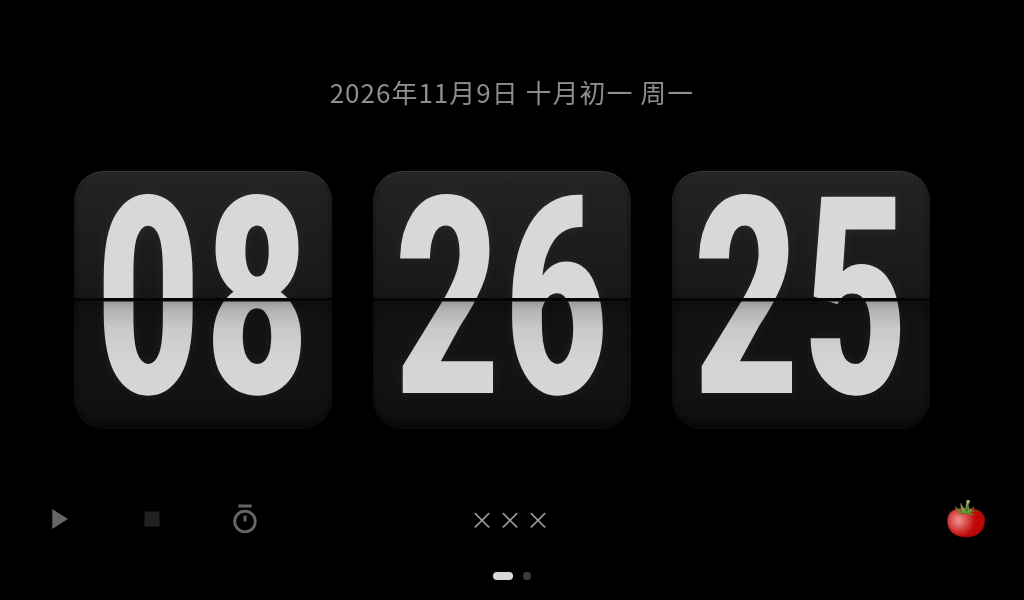
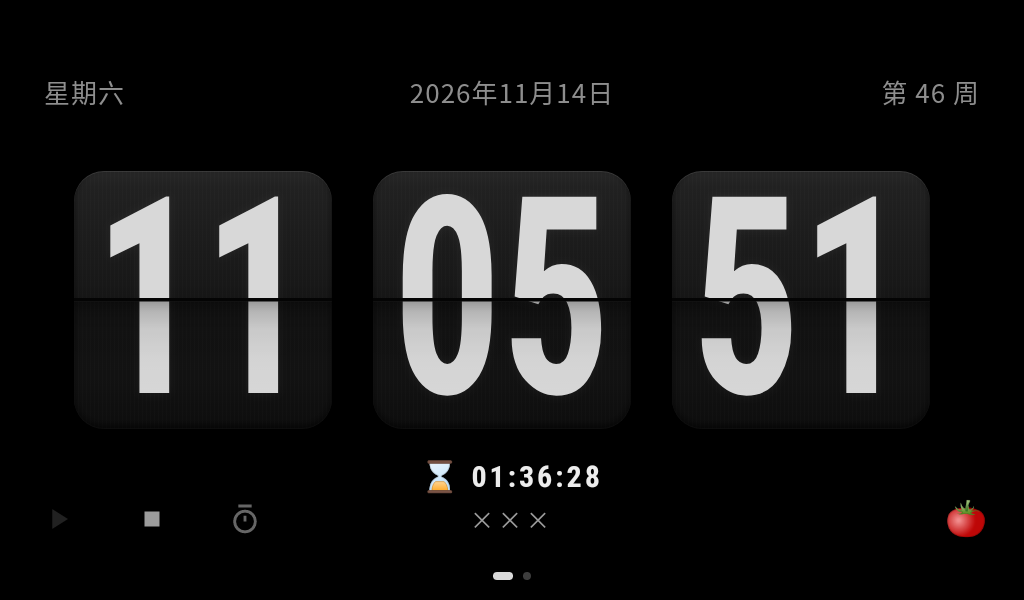
feat(page): 顶行三段式（左星期 / 中公历 / 右第几周）、倒计时运行态提亮、去掉农历换算
与真机 v23 同步：日期行拆分 #dayLine / #dateLine / #weekLine；.cd-status 运行态 30px 白字 + 8% 淡底条（::before, 320x46, z-index:-1）+ U+231B 前缀；删除 LUNAR_INFO / solarToLunar / lunarText 共 39 行。仓库版 240,070 B / md5 d25b6c44645e4b1a0cba94be9a8615af；docs/images/main-clock.png 按本版在实机重拍。

diff --git a/page/index.html b/page/index.html
@@ -35,6 +35,18 @@
     font-size:26px;font-weight:400;color:#8E8E8E;
     letter-spacing:1px;
   }
+  /* 与日期同一行的右端：第几周 */
+  .week-line{
+    position:absolute;top:74px;right:44px;
+    font-size:26px;font-weight:400;color:#8E8E8E;
+    letter-spacing:1px;
+  }
+  /* 与日期同一行的左端：星期 */
+  .day-line{
+    position:absolute;top:74px;left:44px;
+    font-size:26px;font-weight:400;color:#8E8E8E;
+    letter-spacing:1px;
+  }
   .tiles{
     position:absolute;top:171px;left:74px;right:74px;
     height:258px;
@@ -130,14 +142,28 @@
 
   /* ===== 倒计时：时钟页底部一行（默认很淡，点了才进面板） ===== */
   .cd-status{
-    position:absolute;top:462px;left:0;right:0;height:44px;
+    position:absolute;top:456px;left:0;right:0;height:44px;
     line-height:44px;text-align:center;
     font-family:"sans-serif-condensed",Roboto,sans-serif;
     font-size:19px;font-weight:400;color:#4C4C4C;
     letter-spacing:2px;
     z-index:6;
   }
-  .cd-status.run{color:#8E8E8E;}
+  /* 运行中：提亮到 30px 白字，并在文字后面垫一条极淡的圆角底条，让它在黑底上浮起来 */
+  .cd-status.run{
+    color:#EDEDED;font-size:30px;font-weight:600;letter-spacing:3px;
+    font-variant-numeric:tabular-nums;
+  }
+  .cd-status.run::before,
+  .cd-status.final10::before,
+  .cd-status.done::before{
+    content:";
+    position:absolute;left:50%;top:50%;
+    width:320px;height:46px;margin-left:-160px;margin-top:-23px;
+    background:rgba(255,255,255,.08);
+    border-radius:10px;
+    z-index:-1;
+  }
   .cd-status.final{font-size:32px;color:#EDEDED;font-weight:600;letter-spacing:1px;}
   .cd-status.final10{font-size:32px;color:#FF453A;font-weight:700;letter-spacing:1px;}
   .cd-status.done{color:#FF453A;font-weight:700;font-size:26px;}
@@ -381,7 +407,9 @@
 
     <!-- ===== 视图：翻页钟 ===== -->
     <section class="page">
-      <div class="date-line" id="dateLine">2026年11月8日 九月三十 周日</div>
+      <div class="day-line" id="dayLine"></div>
+      <div class="date-line" id="dateLine">2026年11月8日</div>
+      <div class="week-line" id="weekLine"></div>
       <div class="tiles">
         <div class="tile"><div class="digits" id="dH">19</div><div class="shade"></div><div class="seam"></div></div>
         <div class="tile"><div class="digits" id="dM">05</div><div class="shade"></div><div class="seam"></div></div>
@@ -455,11 +483,13 @@
 
 <script>
 (function(){
-  var WEEK_CN = ['周日','周一','周二','周三','周四','周五','周六'];
+  var WEEK_CN = ['星期日','星期一','星期二','星期三','星期四','星期五','星期六'];
   var track = document.getElementById('track');
   var dots = document.getElementById('dots').getElementsByTagName('i');
   var idx = 0;
   var calKey = '';
+  var weekShown = -1;
+  var dayShown = '';
 
   function pad(n){ return n < 10 ? '0' + n : '' + n; }
 
@@ -482,45 +512,6 @@
     }
   }
 
-  /* ---- 农历（1900-2099，表由 lunardate 逐日换算生成并交叉校验） ---- */
-  var LUNAR_INFO = [0x04bd8,0x04ae0,0x0a570,0x054d5,0x0d260,0x0d950,0x16554,0x056a0,0x09ad0,0x055d2,0x04ae0,0x0a5b6,0x0a4d0,0x0d250,0x1d255,0x0b540,0x0d6a0,0x0ada2,0x095b0,0x14977,0x04970,0x0a4b0,0x0b4b5,0x06a50,0x06d40,0x1ab54,0x02b60,0x09570,0x052f2,0x04970,0x06566,0x0d4a0,0x0ea50,0x06e95,0x05ad0,0x02b60,0x186e3,0x092e0,0x1c8d7,0x0c950,0x0d4a0,0x1d8a6,0x0b550,0x056a0,0x1a5b4,0x025d0,0x092d0,0x0d2b2,0x0a950,0x0b557,0x06ca0,0x0b550,0x15355,0x04da0,0x0a5d0,0x14573,0x052b0,0x0a9a8,0x0e950,0x06aa0,0x0aea6,0x0ab50,0x04b60,0x0aae4,0x0a570,0x05260,0x0f263,0x0d950,0x05b57,0x056a0,0x096d0,0x04dd5,0x04ad0,0x0a4d0,0x0d4d4,0x0d250,0x0d558,0x0b540,0x0b5a0,0x195a6,0x095b0,0x049b0,0x0a974,0x0a4b0,0x0b27a,0x06a50,0x06d40,0x0af46,0x0ab60,0x09570,0x04af5,0x04970,0x064b0,0x074a3,0x0ea50,0x06b58,0x05ac0,0x0ab60,0x096d5,0x092e0,0x0c960,0x0d954,0x0d4a0,0x0da50,0x07552,0x056a0,0x0abb7,0x025d0,0x092d0,0x0cab5,0x0a950,0x0b4a0,0x0baa4,0x0ad50,0x055d9,0x04ba0,0x0a5b0,0x15176,0x052b0,0x0a930,0x07954,0x06aa0,0x0ad50,0x05b52,0x04b60,0x0a6e6,0x0a4e0,0x0d260,0x0ea65,0x0d530,0x05aa0,0x076a3,0x096d0,0x04afb,0x04ad0,0x0a4d0,0x1d0b6,0x0d250,0x0d520,0x0dd45,0x0b5a0,0x056d0,0x055b2,0x049b0,0x0a577,0x0a4b0,0x0aa50,0x1b255,0x06d20,0x0ada0,0x14b63,0x09370,0x049f8,0x04970,0x064b0,0x168a6,0x0ea50,0x06aa0,0x1a6c4,0x0aae0,0x092e0,0x0d2e3,0x0c960,0x0d557,0x0d4a0,0x0da50,0x05d55,0x056a0,0x0a6d0,0x055d4,0x052d0,0x0a9b8,0x0a950,0x0b4a0,0x0b6a6,0x0ad50,0x055a0,0x0aba4,0x0a5b0,0x052b0,0x0b273,0x06930,0x07337,0x06aa0,0x0ad50,0x14b55,0x04b60,0x0a570,0x054e4,0x0d160,0x0e968,0x0d520,0x0daa0,0x16aa6,0x056d0,0x04ae0,0x0a9d4,0x0a2d0,0x0d150,0x00032];
-  var LUNAR_MONTH = ['正月','二月','三月','四月','五月','六月','七月','八月','九月','十月','冬月','腊月'];
-  var LUNAR_DAY = ['初一','初二','初三','初四','初五','初六','初七','初八','初九','初十',
-                   '十一','十二','十三','十四','十五','十六','十七','十八','十九','二十',
-                   '廿一','廿二','廿三','廿四','廿五','廿六','廿七','廿八','廿九','三十'];
-
-  function lLeapMonth(y){ return LUNAR_INFO[y - 1900] & 0xf; }
-  function lLeapDays(y){ if (!lLeapMonth(y)) { return 0; } return (LUNAR_INFO[y - 1900] & 0x10000) ? 30 : 29; }
-  function lMonthDays(y, m){ return (LUNAR_INFO[y - 1900] & (0x10000 >> m)) ? 30 : 29; }
-  function lYearDays(y){
-    var s = 348, i = 0x8000;
-    while (i > 0x8) { if (LUNAR_INFO[y - 1900] & i) { s++; } i >>= 1; }
-    return s + lLeapDays(y);
-  }
-  function solarToLunar(y, m, d){
-    var offset = Math.round((Date.UTC(y, m - 1, d) - Date.UTC(1900, 0, 31)) / 86400000);
-    var ly = 1900;
-    while (ly <= 2099 && offset >= lYearDays(ly)) { offset -= lYearDays(ly); ly++; }
-    var lm = 1, isleap = false;
-    while (lm <= 12) {
-      var md = lMonthDays(ly, lm);
-      if (offset < md) { break; }
-      offset -= md;
-      if (lLeapMonth(ly) === lm) {
-        var ld = lLeapDays(ly);
-        if (offset < ld) { isleap = true; break; }
-        offset -= ld;
-      }
-      lm++;
-    }
-    return { y: ly, m: lm, d: offset + 1, leap: isleap };
-  }
-  function lunarText(y, m, d){
-    if (y < 1900 || y > 2099) { return ''; }
-    var l = solarToLunar(y, m, d);
-    return (l.leap ? '闰' : '') + LUNAR_MONTH[l.m - 1] + LUNAR_DAY[l.d - 1];
-  }
-
   /* ---- 时钟 ---- */
   function tick(){
     var now = new Date();
@@ -529,7 +520,17 @@
     document.getElementById('dM').textContent = pad(now.getMinutes());
     document.getElementById('dS').textContent = pad(now.getSeconds());
     document.getElementById('dateLine').textContent =
-      y + '年' + mo + '月' + da + '日 ' + lunarText(y, mo, da) + ' ' + WEEK_CN[now.getDay()];
+      y + '年' + mo + '月' + da + '日';
+    var wd = WEEK_CN[now.getDay()];
+    if (wd !== dayShown) {
+      dayShown = wd;
+      document.getElementById('dayLine').textContent = wd;
+    }
+    var wk = isoWeek(now);
+    if (wk !== weekShown) {
+      weekShown = wk;
+      document.getElementById('weekLine').textContent = '第 ' + wk + ' 周';
+    }
     if (calKey !== y + '-' + mo) { renderCalendar(now); }
 
     /* 倒计时：每秒刷新；到点转成“时间到” */
@@ -652,10 +653,10 @@
     if (cdRunning) {
       if (rem < 60) {
         st.className = 'cd-status' + (rem <= 10 ? ' final10' : ' final');
-        st.textContent = '倒计时 ' + cdHMS(Math.ceil(rem));
+        st.textContent = '\u231B ' + cdHMS(Math.ceil(rem));
       } else {
         st.className = 'cd-status run';
-        st.textContent = '倒计时 ' + cdHMS(Math.ceil(rem));
+        st.textContent = '\u231B ' + cdHMS(Math.ceil(rem));
       }
     } else if (cdDone) {
       st.className = 'cd-status done'; st.textContent = '时间到';
